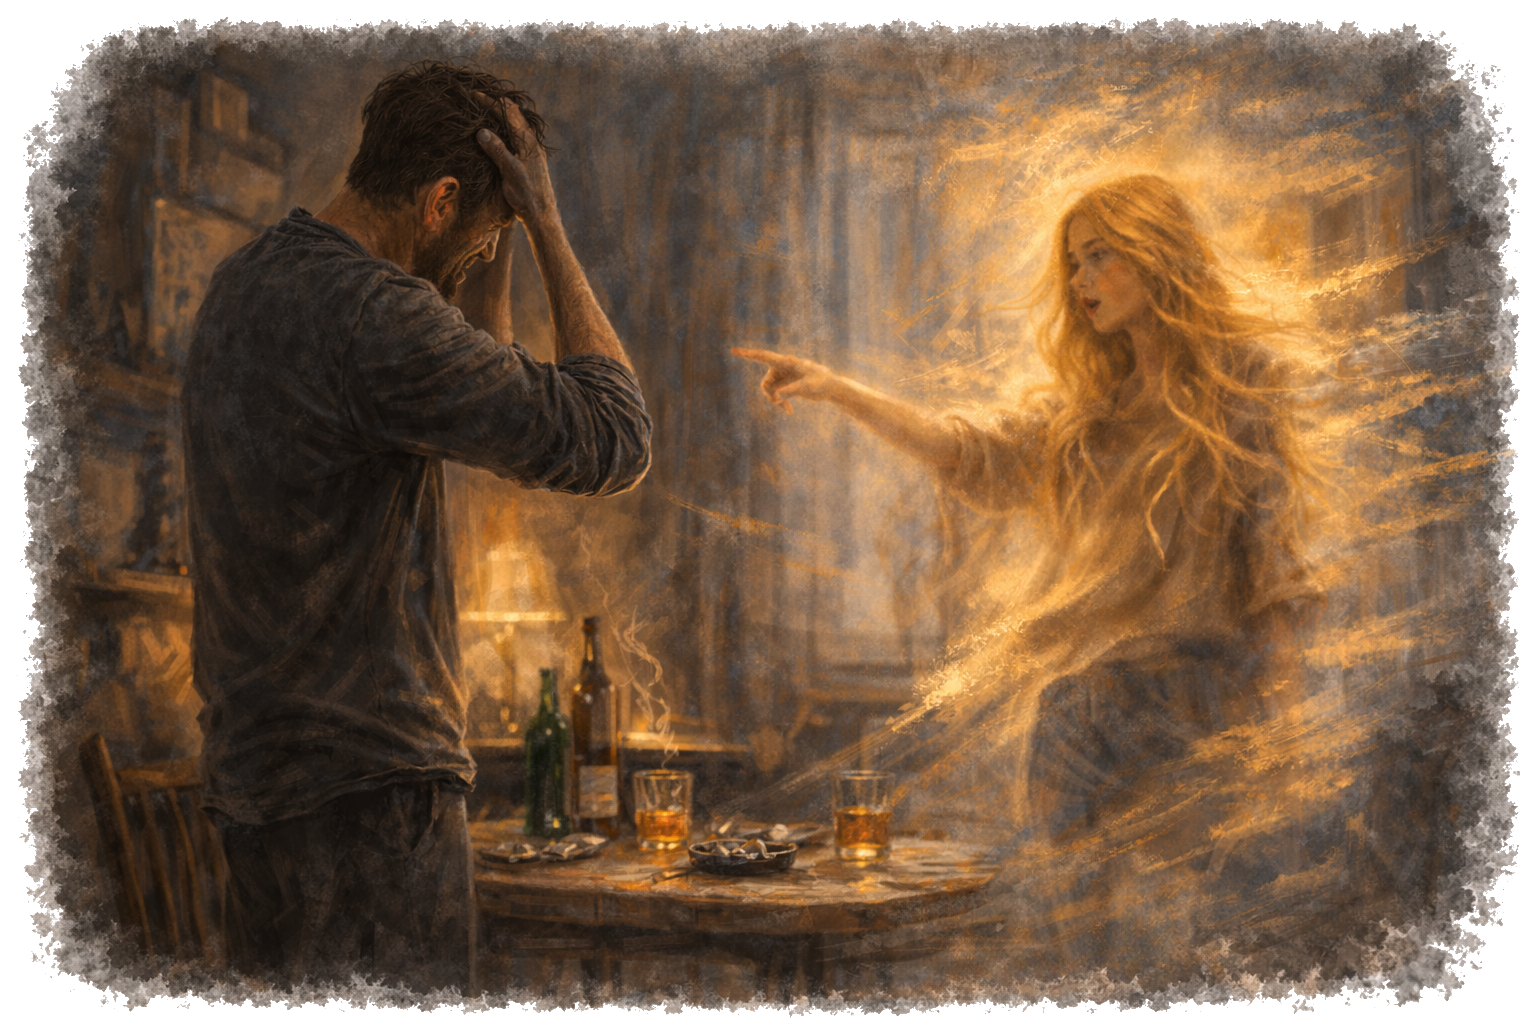
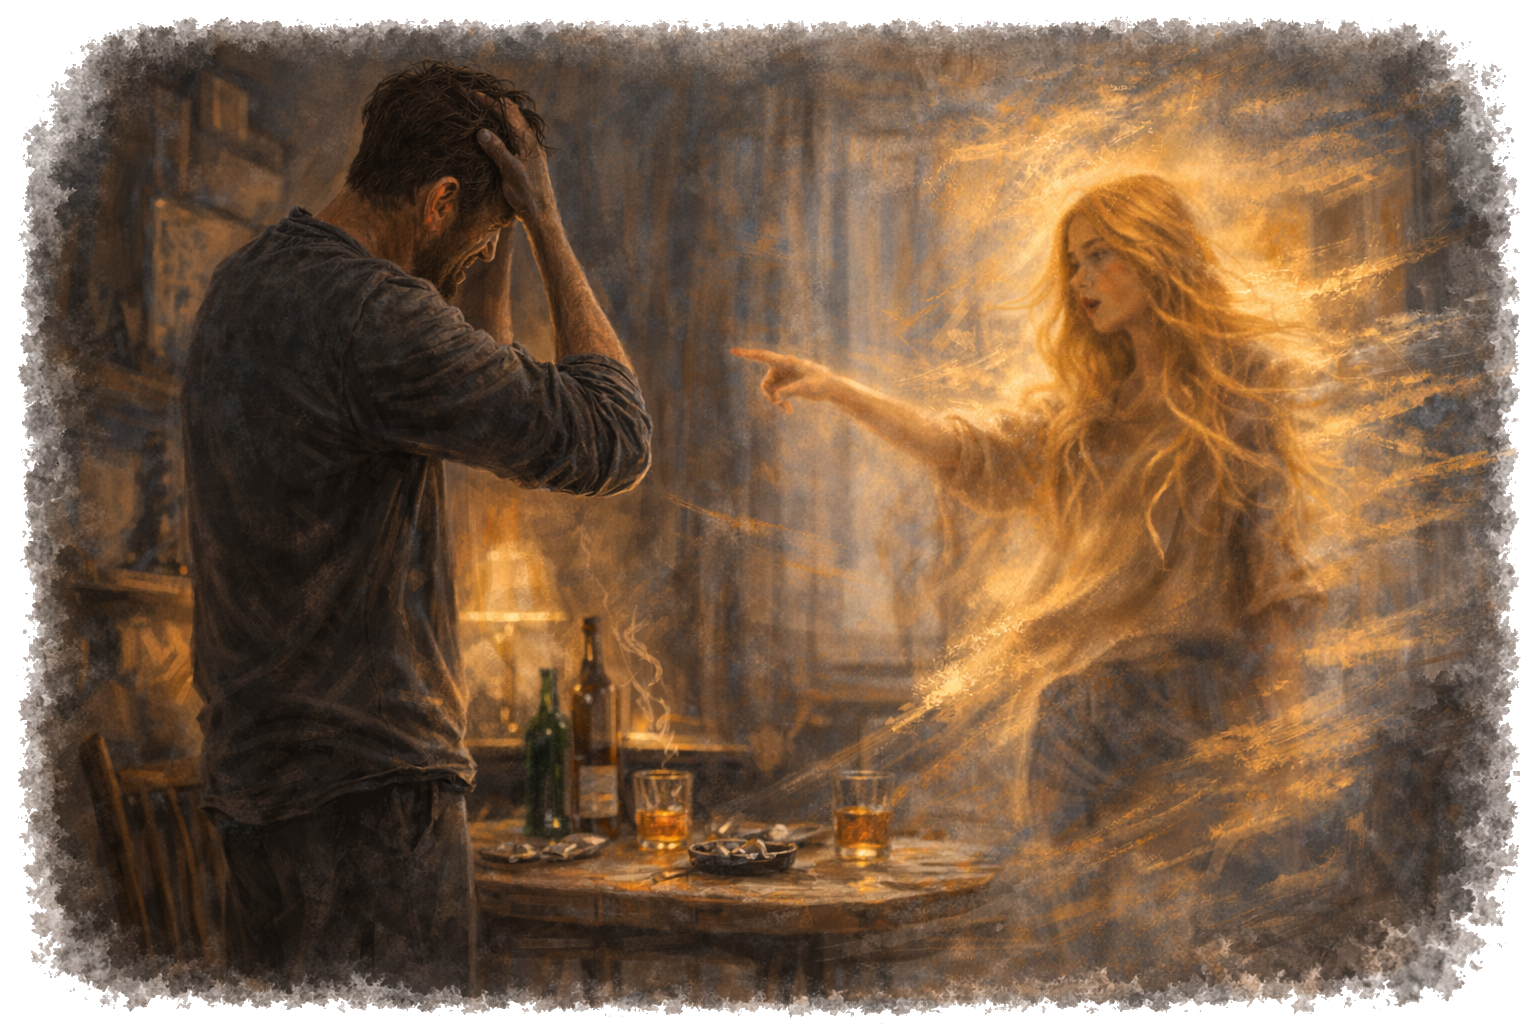
-

diff --git a/_stories/women.md b/_stories/women.md
@@ -12,19 +12,19 @@ cover: "/assets/img/women/poster.png"
 Меня где-то в году так.. а я уже не помню каком, после долгих изучений субъекта под названием женщина, как то осенило.. ну или дошло.  
 Что между мужчиной и женщиной есть одно существенное различие, которое хорошо показывало, как именно эволюция рода развела два разных пола.
 
-![описание]({{ "/assets/img/women/w0_1.png" | relative_url }})
+![описание]({{ "/assets/img/women/w0_p.png" | relative_url }})
 
 В общем, я понял, что мужчина это про цель, достижение этих целей и все что с этим связано. Ну т.е. добежать до мамонта и убить его. вполне понятная и достижимая цель.
 Ну и когда цель достигнута, можно уже расслабиться, отдохнуть, забить болт... ну вы поняли. Набираешься сил на следующую цель. раз два три.. побежали. 
 
-![описание]({{ "/assets/img/women/w1_1.png" | relative_url }})
+![описание]({{ "/assets/img/women/w1_p.png" | relative_url }})
 
 А вот женщина, это нифига не про цель. Она про процесс! Сидишь ждешь, пока он бегает. 
 Рожаешь.. несколько раз, растишь детей. Вяжешь, что нибудь.. долго. 
 Собираешь ягоды, грибы.. да что угодно, можно долго.
 Ухаживаешь за собой, выбираешь и меряешь одежду, ну ооочень долго. 
 
-![описание]({{ "/assets/img/women/w12_1.png" | relative_url }})
+![описание]({{ "/assets/img/women/w12_p.png" | relative_url }})
 
 Выносишь ему мозг, когда он приносит наконец мамонта.. ну этим вообще можно заниматься бесконечно. 
 Процесс, он никогда не заканчивается, им можно заниматься беспрерывно. Цель конечно может быть, но она не так уж и важна. А даже если и есть, тут главное сам процесс... 
@@ -32,7 +32,7 @@ cover: "/assets/img/women/poster.png"
 Когда мужчины между собой разговаривают. И даже, не важно, между собой или с женщиной, то они доносят - информацию! 
 Четкую, конкретную информацию. Рассказывая о своих приключениях, мужчина обычно передает то, что он конкретно делал, что бы что... правильно, достичь цели. Про цель мы уже знаем, ага. 
 
-![описание]({{ "/assets/img/women/w3_1.png" | relative_url }})
+![описание]({{ "/assets/img/women/w3_p.png" | relative_url }})
 
 Сколько выпил, кого встретил, с кем познакомился, где проснулся, что не помнил. 
 
@@ -40,11 +40,11 @@ cover: "/assets/img/women/poster.png"
 Например, как она себя чувствовала при покупке новых туфель. Какие эмоции донесла до своих детей. Как классно провела время с подругой. 
 Ей важно донести свое состояние, в котором она пребывала, пока этот скотина, где то шлялся, гулял, бухал и достигал свой заветной, мать его... цели.
 
-![описание]({{ "/assets/img/women/w2_1.png" | relative_url }})
+![описание]({{ "/assets/img/women/w2_p.png" | relative_url }})
 
 А ее подруга, в этом состоянии может ее поддерживать, делясь при этом своим состоянием, и делать это они, как вы уже, наверное, догадались, могут долго, почти бесконечно. это же процесс 
 
-![описание]({{ "/assets/img/women/w4_1.png" | relative_url }})
+![описание]({{ "/assets/img/women/w4_p.png" | relative_url }})
 
 - Я тебя, таким, домой не пущу! - Кричала жена, пьяному мужу.
 - Больно надо, я за гитарой! - отвечал он ей, за закрытой дверью.

diff --git a/_stories/friends.md b/_stories/friends.md
@@ -35,7 +35,7 @@ cover: "/assets/img/friends/poster.png"
 И так продолжалось долгое время.
 Пока однажды..
 
-![описание]({{ "/assets/img/friends/3_0.png" | relative_url }})
+![описание]({{ "/assets/img/friends/3_p.png" | relative_url }})
 
 Вернувшись из очередного дальнего плавания, мои друзья обнаружили свою дочь задушенной в моих
 крепких объятьях. Я сидел на полу, держа её бездыханное юное тело на руках,
@@ -45,19 +45,19 @@ cover: "/assets/img/friends/poster.png"
 страшная и очень длительная борьба. Трудно было понять, кто может выйти из неё победителем.
 Иногда мне казалось, что только титаны и сильные духом мужчины способны победить Его.
 
-![описание]({{ "/assets/img/friends/4_0.png" | relative_url }})
+![описание]({{ "/assets/img/friends/4_p.png" | relative_url }})
 
 И вот когда казалось, что сил больше нет, каким-то чудом мне удалось его обуздать и склонить передо мной
 колени. И он ушёл, но оставил со мной его верную спутницу. Мою любимую обольстительницу,
 сущность холодной красоты - Одиночество!
 
-![описание]({{ "/assets/img/friends/5_0.png" | relative_url }})
+![описание]({{ "/assets/img/friends/5_p.png" | relative_url }})
 
 Грустную, от такой внезапной потери мужа и дочери. Она очень долго находилась возле меня, словно
 завоёванный, переходящий трофей. Признаться, я был этому рад.
 Какое то время мы прожили вместе. И мне казалось, что я даже был счастлив, горд и не зависим.
 
-![описание]({{ "/assets/img/friends/5_2_0.png" | relative_url }})
+![описание]({{ "/assets/img/friends/5_2_p.png" | relative_url }})
 
 Но внезапно, сказав, что даже с её терпеливым и стойким характером, не возможно
 вытерпеть мой нрав, она покинула меня, хлопнув дверью.
@@ -65,7 +65,7 @@ cover: "/assets/img/friends/poster.png"
 Так я остался совсем один, в тёмной, сырой и маленькой комнате, с единственной дверью, из щелей которой  
 струился яркий солнечный свет и сочные звуки.
 
-![описание]({{ "/assets/img/friends/6_0.png" | relative_url }})
+![описание]({{ "/assets/img/friends/6_p.png" | relative_url }})
 
 Дверь, которая вела в шумный мир наполненный жизнью!
 И вот, робко и не решительно, я подошёл к ней, и так же робко и со страхом приоткрыл её..
